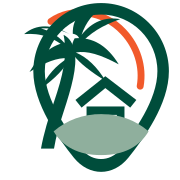
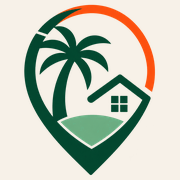
Update public site copy, taxi fleet rates, and homepage photos.
Point stays and contact to Haggatt Hall, refresh favicons and hero/gallery images, and drop the 4-seater taxi tier from guest checkout.

diff --git a/src/routes/_authenticated/admin.settings.tsx b/src/routes/_authenticated/admin.settings.tsx
@@ -14,7 +14,7 @@ export const Route = createFileRoute("/_authenticated/admin/settings")({
 });
 
 const EMPTY: TaxiFareSettings = {
-  fareFor1to4: 1.62,
+  fareFor1to4: 2.4,
   fareFor5to7: 2.4,
   fareFor8to10: 4,
   perKmUsd: 0,
@@ -40,7 +40,7 @@ function SettingsPage() {
     if (!settingsQ.data) return;
     const data = settingsQ.data;
     setForm({
-      fareFor1to4: data.fareFor1to4 ?? data.fareFor1Guest ?? 1.62,
+      fareFor1to4: data.fareFor5to7 ?? data.fareFor3Guests ?? 2.4,
       fareFor5to7: data.fareFor5to7 ?? data.fareFor3Guests ?? 2.4,
       fareFor8to10: data.fareFor8to10 ?? data.fareFor4PlusGuests ?? 4,
       perKmUsd: data.perKmUsd ?? 0,
@@ -52,6 +52,7 @@ function SettingsPage() {
     mutationFn: () =>
       updateAdminTaxiFareSettings({
         ...form,
+        fareFor1to4: form.fareFor5to7,
         perKmUsd: 0,
       }),
     onSuccess: (data) => {
@@ -89,7 +90,7 @@ function SettingsPage() {
         <h2 className="font-display font-bold text-brand-charcoal">Taxi rates (USD per km)</h2>
         <p className="mt-1 text-sm text-muted-foreground">
           Set the regulated rate by vehicle size. Fare = driving distance (Google Maps) × rate for
-          the van chosen, never below the minimum. The 8–10 seat tier is kept for later.
+          the van chosen, never below the minimum. Fleet: XL 7-seater and 12-seater only.
         </p>
 
         {settingsQ.isLoading ? (
@@ -104,14 +105,7 @@ function SettingsPage() {
               save.mutate();
             }}
           >
-            <div className="grid gap-3 sm:grid-cols-3">
-              <MoneyField
-                label="4-seater $/km"
-                hint="Up to 4 passengers"
-                value={form.fareFor1to4}
-                onChange={(v) => setNumber("fareFor1to4", v)}
-                step="0.01"
-              />
+            <div className="grid gap-3 sm:grid-cols-2">
               <MoneyField
                 label="XL 7-seater $/km"
                 hint="Up to 7 passengers"
@@ -120,8 +114,8 @@ function SettingsPage() {
                 step="0.01"
               />
               <MoneyField
-                label="8–10 seater $/km"
-                hint="Not offered yet"
+                label="12-seater $/km"
+                hint="Up to 12 passengers"
                 value={form.fareFor8to10}
                 onChange={(v) => setNumber("fareFor8to10", v)}
                 step="0.01"
@@ -144,16 +138,16 @@ function SettingsPage() {
                 Distance (km) × rate for the vehicle size, then floored by the minimum fare.
               </p>
               <p className="mt-2 text-muted-foreground">
-                Example: 4-seater · 10 km → 10 × ${form.fareFor1to4} = $
-                {Math.max(
-                  form.minimumFareUsd,
-                  Math.round(10 * form.fareFor1to4 * 100) / 100,
-                ).toFixed(2)}
-                {" · "}
-                XL · 10 km → 10 × ${form.fareFor5to7} = $
+                Example: XL 7 · 10 km → 10 × ${form.fareFor5to7} = $
                 {Math.max(
                   form.minimumFareUsd,
                   Math.round(10 * form.fareFor5to7 * 100) / 100,
+                ).toFixed(2)}
+                {" · "}
+                12-seater · 10 km → 10 × ${form.fareFor8to10} = $
+                {Math.max(
+                  form.minimumFareUsd,
+                  Math.round(10 * form.fareFor8to10 * 100) / 100,
                 ).toFixed(2)}
               </p>
             </div>

diff --git a/src/components/SiteFooter.tsx b/src/components/SiteFooter.tsx
@@ -23,7 +23,7 @@ export function SiteFooter() {
           <ul className="mt-5 space-y-3 text-sm">
             <li className="flex items-start gap-3">
               <Phone className="mt-0.5 h-4 w-4 shrink-0 text-brand-sage" />
-              <a href="tel:+12468234567" className="hover:text-white">+1 (246) 823-4567</a>
+              <a href="tel:+12462344875" className="hover:text-white">+1 (246) 234-4875</a>
             </li>
             <li className="flex items-start gap-3">
               <Mail className="mt-0.5 h-4 w-4 shrink-0 text-brand-sage" />
@@ -33,7 +33,7 @@ export function SiteFooter() {
             </li>
             <li className="flex items-start gap-3">
               <MapPin className="mt-0.5 h-4 w-4 shrink-0 text-brand-sage" />
-              <span>Oistins, Christ Church<br />Barbados</span>
+              <span>Haggatt Hall, St. Michael<br />Barbados</span>
             </li>
           </ul>
         </div>
@@ -56,7 +56,7 @@ export function SiteFooter() {
         <div>
           <h4 className="text-sm font-semibold uppercase tracking-wider text-white">Let's Connect</h4>
           <a
-            href="https://wa.me/12468234567"
+            href="https://wa.me/12462344875"
             target="_blank"
             rel="noreferrer"
             className="mt-5 inline-flex items-center gap-3 rounded-xl bg-white/10 px-4 py-3 text-sm font-medium text-white transition-colors hover:bg-white/20"
@@ -71,7 +71,7 @@ export function SiteFooter() {
             <a href="#" aria-label="Instagram" className="inline-flex h-10 w-10 items-center justify-center rounded-full bg-white/10 hover:bg-white/20">
               <Instagram className="h-4 w-4" />
             </a>
-            <a href="https://wa.me/12468234567" aria-label="WhatsApp" className="inline-flex h-10 w-10 items-center justify-center rounded-full bg-white/10 hover:bg-white/20">
+            <a href="https://wa.me/12462344875" aria-label="WhatsApp" className="inline-flex h-10 w-10 items-center justify-center rounded-full bg-white/10 hover:bg-white/20">
               <MessageCircle className="h-4 w-4" />
             </a>
           </div>

diff --git a/src/components/SiteHeader.tsx b/src/components/SiteHeader.tsx
@@ -1,4 +1,4 @@
-import { Link, useNavigate } from "@tanstack/react-router";
+import { Link, useNavigate, useRouterState } from "@tanstack/react-router";
 import { useState } from "react";
 import {
   Menu,
@@ -19,6 +19,7 @@ import {
   DropdownMenuSeparator,
   DropdownMenuTrigger,
 } from "@/components/ui/dropdown-menu";
+import { cn } from "@/lib/utils";
 
 const navLinks = [
   { to: "/stays", label: "Stays" },
@@ -40,6 +41,9 @@ function userInitials(name: string) {
 export function SiteHeader() {
   const [open, setOpen] = useState(false);
   const navigate = useNavigate();
+  const pathname = useRouterState({ select: (s) => s.location.pathname });
+  // PayPal card fields expand inline — a sticky header covers that form and blocks clicks.
+  const checkoutFlow = pathname.startsWith("/book") || pathname.startsWith("/taxi");
   const { user, admin, session, signOut, openAuthModal } = useUserAuth();
   const isStaff = session?.kind === "admin";
   const isDriver = session?.kind === "driver";
@@ -79,7 +83,12 @@ export function SiteHeader() {
   }
 
   return (
-    <header className="sticky top-0 z-50 w-full border-b border-border bg-background/90 backdrop-blur-md">
+    <header
+      className={cn(
+        "w-full border-b border-border bg-background/90 backdrop-blur-md",
+        checkoutFlow ? "relative z-30" : "sticky top-0 z-50",
+      )}
+    >
       <div className="mx-auto flex h-16 max-w-7xl items-center justify-between px-4 sm:h-20 sm:px-6 lg:h-24 lg:px-8">
         <Link to="/" className="flex items-center" aria-label="Malfranza home">
           <Logo className="h-12 w-auto sm:h-16 lg:h-20" />

diff --git a/src/lib/bookings.ts b/src/lib/bookings.ts
@@ -266,14 +266,12 @@ export function guestFareFromSettings(settings: TaxiFareSettings, passengers: nu
   return vehicleFareFromSettings(settings, passengers);
 }
 
-/** Per-km rate by vehicle capacity: ≤4 → 4-seater, ≤7 → XL, else 8–10 tier. */
+/** Per-km rate by vehicle capacity: ≤7 → XL 7-seater, else 12-seater. */
 export function vehicleFareFromSettings(settings: TaxiFareSettings, capacity: number): number {
-  const fare1to4 = settings.fareFor1to4 ?? settings.fareFor1Guest ?? 1.62;
   const fare5to7 = settings.fareFor5to7 ?? settings.fareFor3Guests ?? 2.4;
-  const fare8to10 = settings.fareFor8to10 ?? settings.fareFor4PlusGuests ?? 4;
-  if (capacity <= 4) return fare1to4;
+  const fare12 = settings.fareFor8to10 ?? settings.fareFor4PlusGuests ?? 4;
   if (capacity <= 7) return fare5to7;
-  return fare8to10;
+  return fare12;
 }
 
 export function calculateGuestTaxiFare(
@@ -334,6 +332,7 @@ export type EnquiryInput = {
   phone?: string;
   interestedIn: string;
   preferredDates?: string;
+  preferredDateEnd?: string;
   message: string;
 };
 
@@ -346,6 +345,7 @@ export async function createEnquiry(input: EnquiryInput) {
       phone: input.phone,
       interestedIn: input.interestedIn,
       preferredDate: input.preferredDates,
+      preferredDateEnd: input.preferredDateEnd,
       message: input.message,
     }),
     userAuth: !!getUserToken(),

diff --git a/index.html b/index.html
@@ -16,10 +16,11 @@
     />
     <meta property="og:type" content="website" />
     <meta name="twitter:card" content="summary_large_image" />
-    <link rel="icon" href="/favicon.svg" type="image/svg+xml" />
-    <link rel="icon" href="/favicon.ico" sizes="any" />
+    <link rel="icon" href="/favicon.png" type="image/png" sizes="any" />
+    <link rel="icon" href="/favicon.ico" sizes="48x48" />
     <link rel="icon" href="/favicon-32.png" type="image/png" sizes="32x32" />
-    <link rel="apple-touch-icon" href="/apple-touch-icon.png" />
+    <link rel="icon" href="/favicon-16.png" type="image/png" sizes="16x16" />
+    <link rel="apple-touch-icon" href="/apple-touch-icon.png" sizes="180x180" />
     <link rel="preconnect" href="https://fonts.googleapis.com" />
     <link rel="preconnect" href="https://fonts.gstatic.com" crossorigin />
     <link

diff --git a/src/components/WhatsAppFloat.tsx b/src/components/WhatsAppFloat.tsx
@@ -1,14 +1,17 @@
 import { useRouterState } from "@tanstack/react-router";
 
 const WHATSAPP_URL =
-  "https://wa.me/12468234567?text=" +
+  "https://wa.me/12462344875?text=" +
   encodeURIComponent("Hi Malfranza! I'd like help with a stay or taxi booking.");
 
 export function WhatsAppFloat() {
   const pathname = useRouterState({ select: (s) => s.location.pathname });
   // Stay detail has a fixed mobile booking bar — lift the button above it.
   const aboveMobileBar = pathname.startsWith("/stays/") && pathname !== "/stays/";
-
+  // Hide over PayPal card fields so the float doesn't cover checkout controls.
+  if (pathname.startsWith("/book") || pathname.startsWith("/taxi")) {
+    return null;
+  }
   return (
     <a
       href={WHATSAPP_URL}

diff --git a/src/lib/admin.ts b/src/lib/admin.ts
@@ -299,7 +299,11 @@ export async function listEnquiries() {
     phone: enquiry.phone ?? null,
     user_account: mapLinkedUser(enquiry),
     interested_in: enquiry.interestedIn,
-    preferred_dates: enquiry.preferredDate ? toDateOnly(enquiry.preferredDate) : null,
+    preferred_dates: enquiry.preferredDate
+      ? enquiry.preferredDateEnd
+        ? `${toDateOnly(enquiry.preferredDate)} → ${toDateOnly(enquiry.preferredDateEnd)}`
+        : toDateOnly(enquiry.preferredDate)
+      : null,
     message: enquiry.message,
     status: enquiry.status as EnquiryStatus,
     admin_notes: enquiry.adminNotes ?? null,

diff --git a/src/lib/googleMaps.ts b/src/lib/googleMaps.ts
@@ -81,8 +81,11 @@ export type GoogleMapsApi = {
   };
 };
 
-// Central point used across the site.
-export const OISTINS_CENTER = { lat: 13.0656, lng: -59.5442 };
+/** Property / map center — Malfranza Apartments (Bing Maps pin). */
+export const HAGGATT_HALL_CENTER = { lat: 13.065842, lng: -59.49755 };
+
+/** @deprecated Use HAGGATT_HALL_CENTER */
+export const OISTINS_CENTER = HAGGATT_HALL_CENTER;
 
 // Light, desaturated brand map style.
 export const BRAND_MAP_STYLE: MapStyle[] = [

diff --git a/src/routes/_authenticated/admin.drivers.tsx b/src/routes/_authenticated/admin.drivers.tsx
@@ -378,7 +378,7 @@ function DriverForm({
           value={vehicleLabel}
           onChange={(e) => setVehicleLabel(e.target.value)}
           className={inputClass}
-          placeholder="4-seater car"
+          placeholder="XL — 7 seats"
         />
       </Field>
       <Field label="Passenger capacity">
